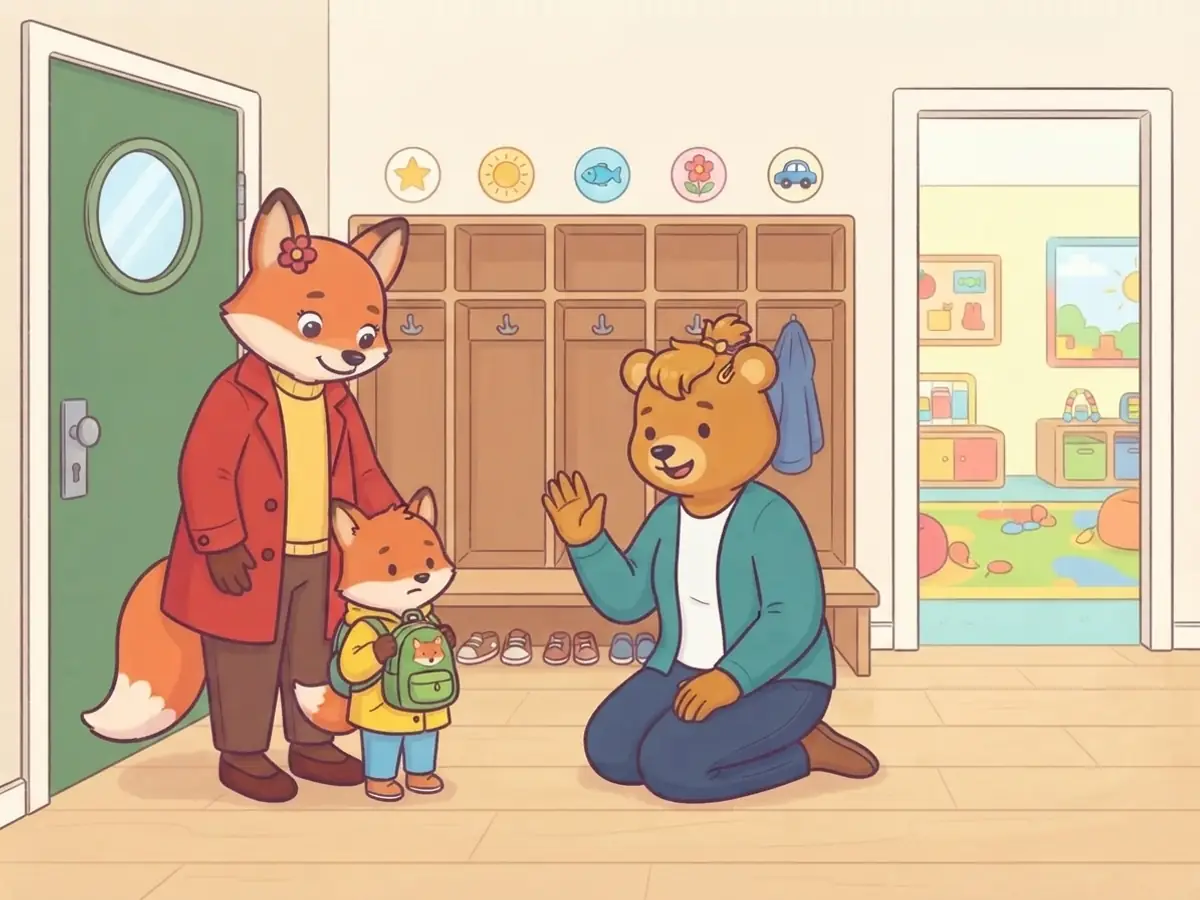
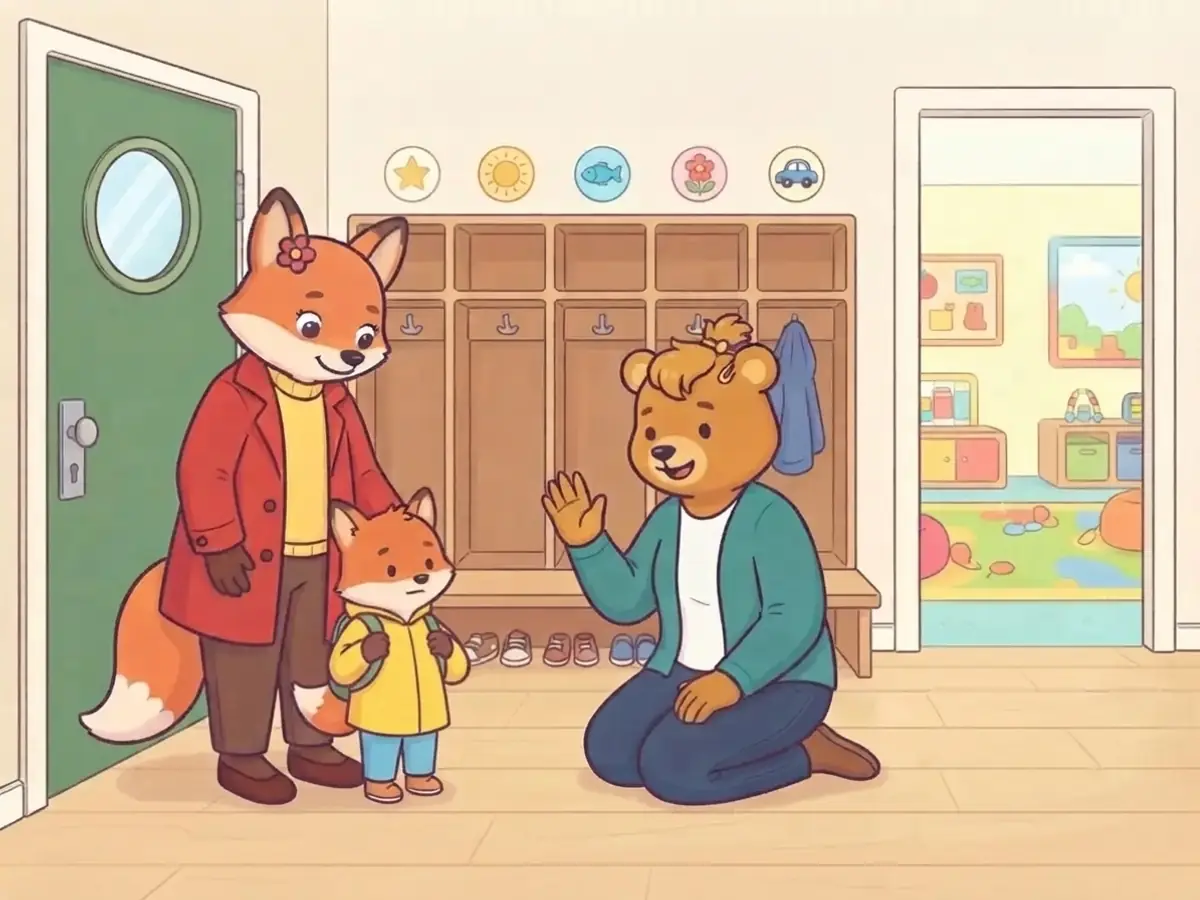
Kita-Start: the Kita seen from the street has a playground and an open door and gate, Tapsi packs smiling and wears one backpack, Mama vacuums at home and the whole group plays in the garden
Faces are friendly unless a picture asks otherwise: the style block of every Gemini picture now says so.

diff --git a/src/games/kitastory/kitaStoryPictures.ts b/src/games/kitastory/kitaStoryPictures.ts
@@ -44,7 +44,7 @@ const PLACES: Record<Place, { ref: string; was: string; first?: string; looks?: 
     was: "Papa and Tapsi stand on the pavement and look at the house",
     first: "anschauen",
     looks:
-      "A quiet little street in front of the daycare centre (a German Kita for toddlers), seen from across the pavement: a friendly low one-storey house with a red roof and warm yellow walls, a green front door on the right, and on the left a big low window with a white frame, its lower edge at a toddler's chest height from the floor inside, children's paintings of suns and flowers stuck inside the glass at its edges so the middle of the window stays clear; a low wooden fence with an open gate, a path to the door, a tree beside the house, a pavement in front.",
+      "A quiet little street in front of a daycare centre (a German Kita for toddlers), seen from across the pavement, so plainly a Kita and not a family's house: a wide, friendly one-storey building with a red roof and warm yellow walls, a colourful rainbow painted along its wall under the roof, a big green front door on the right standing wide open, showing a bright hall with small coats on hooks inside, and on the left a big low window with a white frame, children's paintings of suns and flowers stuck inside the glass at its edges so the middle of the window stays clear; in front of the house a low wooden fence with a big wide entrance gate, both its wings swung wide open, and a path from it to the open door. Beside the house, behind the fence, a garden with a playground full of toys: a sandpit with a wooden edge and buckets and shovels in it, a small slide, a swing on a wooden frame, a little climbing frame, a tricycle and a big red ball on the lawn; a big tree beside the house, a pavement in front.",
   },
   garderobe: {
     ref: pictureFile("ankommen"),
@@ -69,6 +69,9 @@ const PLACES: Record<Place, { ref: string; was: string; first?: string; looks?: 
   },
 };
 
+/** Whether a character is one of the Kita's bears. */
+const isBear = (c: Cast) => c !== "tapsi" && c !== "mama" && c !== "papa";
+
 /** Where Mia and Bruno are first drawn, so a later page with them in another place keeps their look. */
 const PEOPLE: Partial<Record<Cast, string>> = { mia: "ankommen", bruno: "stuhl" };
 
@@ -79,6 +82,9 @@ const LIGHT: Record<Light, string> = {
   mittag: "It is the midday nap: the curtains are drawn and the room lies in soft dim light, everything still clearly seen.",
   abend: "It is evening: dusk outside the window, a lamp gives warm soft light.",
 };
+
+/** How many characters a cast name stands for, where it is more than one. */
+const GROUP_SIZE: Partial<Record<Cast, number>> = { kinder: 2, gruppe: 4 };
 
 /** Everyone in a page's picture, each described with what they wear there. */
 function castOf(page: KitaPage): string {
@@ -91,8 +97,10 @@ function castOf(page: KitaPage): string {
       "Bruno, Tapsi's friend, a small bear toddler as tall as Tapsi with dark-brown fur, in a red T-shirt and blue dungarees, with only a tiny round bear tail",
     kinder:
       "two more small toddlers of the daycare group, as tall as Tapsi: a little bear girl with light-brown fur in a green dress, and a little bear boy with grey-brown fur in an orange T-shirt",
+    gruppe:
+      "four more small toddlers of the daycare group, as tall as Tapsi, each with only a tiny round bear tail: a little bear girl with dark-brown fur in a pink dress, a little bear boy with honey-blond fur in a yellow T-shirt and green trousers, a little bear girl with reddish-brown fur in a purple dress, and a little bear boy with cream-coloured fur in a blue striped sweater",
   };
-  const n = page.cast.reduce((sum, c) => sum + (c === "kinder" ? 2 : 1), 0);
+  const n = page.cast.reduce((sum, c) => sum + (GROUP_SIZE[c] ?? 1), 0);
   return `Exactly ${n === 1 ? "one character" : `${n} characters, each once`}: ${page.cast.map((c) => who[c]).join("; ")}. Nobody else: only ONE of each in the whole picture, nobody more in a doorway, on the furniture, behind the window or peeking in from an edge.`;
 }
 
@@ -101,7 +109,12 @@ function thingsOf(page: KitaPage): string[] {
   const things: string[] = [];
   if (/plush bunny/.test(page.picture))
     things.push("The plush bunny is Tapsi's light-grey soft toy with long floppy ears, not a living rabbit; there is only one.");
-  if (/backpack/.test(page.picture)) things.push("Tapsi's backpack is a small green toddler backpack with a fox face on its front pocket; there is only one.");
+  // On the first day's arrival Tapsi wore one backpack on the back and a second on the front (user feedback, 12
+  // November 2026): say where a worn backpack sits.
+  if (/backpack/.test(page.picture))
+    things.push(
+      "Tapsi's backpack is a small green toddler backpack with a fox face on its front pocket; there is only one. When Tapsi wears it, it sits on Tapsi's back with only its two straps over the shoulders – nothing on Tapsi's chest or tummy.",
+    );
   if (/star sign/.test(page.picture)) things.push("Tapsi's hook is marked with a small round sign showing a yellow star.");
   return things;
 }
@@ -128,6 +141,7 @@ const NAMED: Record<Cast, string> = {
   mia: "Mia (the grown-up bear)",
   bruno: "Bruno",
   kinder: "the other bear children",
+  gruppe: "the rest of the bear group",
 };
 
 /**
@@ -142,13 +156,13 @@ function absent(page: KitaPage): string {
   if (!gone.length) return "";
   const names = gone.map((who) => NAMED[who]);
   const list = names.length === 1 ? names[0] : `${names.slice(0, -1).join(", ")} and ${names.at(-1)}`;
-  return `${list} ${names.length === 1 && gone[0] !== "kinder" ? "is" : "are"} not in this picture at all: leave their places in the reference empty, and give nobody else their place or clothes.`;
+  return `${list} ${names.length === 1 && !GROUP_SIZE[gone[0]] ? "is" : "are"} not in this picture at all: leave their places in the reference empty, and give nobody else their place or clothes.`;
 }
 
 /** The prompt of a page's picture, without the style block. */
 function promptOf(page: KitaPage): string {
   const place = PLACES[page.place];
-  const bears = page.cast.some((c) => c === "mia" || c === "bruno" || c === "kinder");
+  const bears = page.cast.some(isBear);
   const parts =
     place.first === page.id
       ? [
@@ -175,7 +189,7 @@ function promptOf(page: KitaPage): string {
 function ownRefs(page: KitaPage): string[] {
   const place = PLACES[page.place];
   if (place.first !== page.id) return [place.ref];
-  return page.cast.some((c) => c === "mia" || c === "bruno" || c === "kinder") ? [FAMILY, BEARS] : [FAMILY];
+  return page.cast.some(isBear) ? [FAMILY, BEARS] : [FAMILY];
 }
 
 /** The pictures a page is drawn from: its place's own, then the pictures Mia and Bruno first came in (`PEOPLE`). */
@@ -213,8 +227,10 @@ const MADE = new Set<string>([
   "wieder",
   "essen",
   "traurig",
+  "zuhause",
   "pusten",
   "laenger",
+  "toben",
   "weg",
   "schuhe",
   "kuss",

diff --git a/src/games/kitastory/kitaStory.ts b/src/games/kitastory/kitaStory.ts
@@ -44,8 +44,11 @@ export const SETTLING_STEPS: { id: SettlingStep; title: string; what: string }[]
 /** Where a page plays: every place keeps its look from its reference picture on (`kitaStoryPictures.ts`). */
 export type Place = "wohnzimmer" | "kinderzimmer" | "weg" | "kita" | "garderobe" | "gruppenraum" | "garten";
 
-/** Who is in a page's picture: Tapsi, Mama and Papa Fuchs, Mia the Kita teacher, Bruno and two more children of the group. */
-export type Cast = "tapsi" | "mama" | "papa" | "mia" | "bruno" | "kinder";
+/**
+ * Who is in a page's picture: Tapsi, Mama and Papa Fuchs, Mia the Kita teacher, Bruno, two more children of the group
+ * („kinder“) and, where the whole group plays, four more („gruppe“).
+ */
+export type Cast = "tapsi" | "mama" | "papa" | "mia" | "bruno" | "kinder" | "gruppe";
 
 /** The light of a page. */
 export type Light = "morgen" | "tag" | "mittag" | "abend";
@@ -58,7 +61,7 @@ export interface KitaPage {
   text: string;
   place: Place;
   light: Light;
-  /** Everyone in the picture, each once („kinder“ are two). */
+  /** Everyone in the picture, each once („kinder“ are two, „gruppe“ four). */
   cast: Cast[];
   /** What happens in the picture, in English, for its Gemini prompt (`kitaStoryPictures.ts` adds place, cast and light). */
   picture: string;
@@ -101,7 +104,7 @@ export const KITA_STORY: KitaChapter[] = [
         light: "abend",
         cast: ["tapsi", "mama"],
         picture:
-          "Tapsi and Mama kneel on the round rug in front of the bed and pack Tapsi's backpack: Mama holds up small red slippers, and Tapsi pushes the plush bunny into the backpack so its ears stick out.",
+          "Tapsi and Mama kneel on the round rug in front of the bed and pack Tapsi's backpack: Mama holds up small red slippers, and Tapsi pushes the plush bunny into the backpack so its ears stick out. Tapsi looks happy and eager, smiling with relaxed, raised brows – not frowning.",
       },
     ],
   },
@@ -231,12 +234,30 @@ export const KITA_STORY: KitaChapter[] = [
           "Mia sits cross-legged on the play rug with Tapsi on her lap, Tapsi leans against her with a sad face and holds the plush bunny; Mia holds Tapsi gently. The small wooden chair at the back wall is empty.",
       },
       {
+        id: "zuhause",
+        text: "Und Mama? Mama ist zu Hause und saugt Staub. Sie denkt an Tapsi.",
+        place: "wohnzimmer",
+        light: "morgen",
+        cast: ["mama"],
+        picture:
+          "Mama vacuums the rug in front of the green sofa with an upright vacuum cleaner and smiles softly to herself, thinking of Tapsi. Tapsi is not at home: the rug is empty, no blocks on it, no fox child anywhere.",
+      },
+      {
         id: "laenger",
         text: "Jeden Tag bleibt Mama ein bisschen länger weg. Tapsi spielt jetzt mit Bruno.",
         place: "garten",
         light: "tag",
         cast: ["tapsi", "bruno"],
         picture: "Tapsi and Bruno sit in the sandpit and fill a red bucket together with small shovels, both laughing.",
+      },
+      {
+        id: "toben",
+        text: "Im Garten spielen viele Kinder. Sie rutschen, rennen und buddeln. Tapsi lacht mit.",
+        place: "garten",
+        light: "tag",
+        cast: ["tapsi", "bruno", "kinder", "gruppe", "mia"],
+        picture:
+          "The whole group plays in the garden and has fun, all laughing: Tapsi comes down the small slide with both arms up, Bruno waits at the slide's foot and cheers; the bear girl in the green dress and the bear boy in the orange T-shirt chase each other across the lawn; two of the other bear children dig in the sandpit and two kick a big red ball on the lawn; Mia stands on the lawn by the sandpit and laughs.",
       },
     ],
   },

diff --git a/src/content/pictureQueuePlan.ts b/src/content/pictureQueuePlan.ts
@@ -11,11 +11,11 @@ import type { QueuedPicture } from "./pictureQueue";
 
 /** The book's style block, put before every picture's prompt (see the skill /bild-erzeugen). */
 export const BOOK_STYLE =
-  "Children's picture-book illustration for 2–4 year olds, like a page of a printed picture book. Soft, flat, rounded shapes with thick dark plum ink outlines (#3d3045), warm friendly colours softened like gouache printed on matte paper – still clear and easy to tell apart, never dull or grey – gentle shading. Simple, uncluttered background. Every fox and bear wears clothes. No text, no letters, no numbers, no speech bubbles, no frames, no book, page or paper edge drawn around the picture.";
+  "Children's picture-book illustration for 2–4 year olds, like a page of a printed picture book. Soft, flat, rounded shapes with thick dark plum ink outlines (#3d3045), warm friendly colours softened like gouache printed on matte paper – still clear and easy to tell apart, never dull or grey – gentle shading. Simple, uncluttered background. Every fox and bear wears clothes. Faces are friendly and relaxed, never frowning or with angry brows unless the picture asks for that feeling. No text, no letters, no numbers, no speech bubbles, no frames, no book, page or paper edge drawn around the picture.";
 
 /** The style block for cut-outs: no background and no paper texture, which would spoil the cut. */
 export const CUTOUT_STYLE =
-  "Children's picture-book illustration for 2–4 year olds, like a page of a printed picture book. Soft, flat, rounded shapes with thick dark plum ink outlines (#3d3045), warm friendly colours softened like gouache – still clear and easy to tell apart, never dull or grey – gentle shading. Every fox and bear wears clothes. No text, no letters, no numbers, no speech bubbles, no frames, no book, page or paper edge drawn around the picture.";
+  "Children's picture-book illustration for 2–4 year olds, like a page of a printed picture book. Soft, flat, rounded shapes with thick dark plum ink outlines (#3d3045), warm friendly colours softened like gouache – still clear and easy to tell apart, never dull or grey – gentle shading. Every fox and bear wears clothes. Faces are friendly and relaxed, never frowning or with angry brows unless the picture asks for that feeling. No text, no letters, no numbers, no speech bubbles, no frames, no book, page or paper edge drawn around the picture.";
 
 /** The pixels of a 1K picture per aspect Gemini can make (the Lite model's only size). */
 export const PICTURE_1K: Record<string, [number, number]> = {

diff --git a/src/games/kitastory/kitastory.test.ts b/src/games/kitastory/kitastory.test.ts
@@ -38,6 +38,13 @@ describe("Tapsi geht in die Kita", () => {
     for (const text of texts) expect(text, text).not.toMatch(/\b\d{1,2}(:\d\d)? Uhr\b/);
   });
 
+  // User decision, 12 November 2026: Mama at home while Tapsi is in the Kita belongs where she stays away longer, never
+  // to the first short goodbye, when the guides keep her in the building.
+  test("Mama is shown away from Tapsi only once she stays away longer", () => {
+    for (const chapter of KITA_STORY)
+      for (const page of chapter.pages) if (page.cast.includes("mama") && !page.cast.includes("tapsi")) expect(chapter.step, page.id).toBe("bezugsperson");
+  });
+
   test("nothing scolds or shames, crying is allowed, and it ends in love", () => {
     const words = /\b(böse|unartig|schäm|stell dich nicht an|hör auf zu weinen|darf nicht weinen|baby\b|heimlich|schnell weg)/i;
     for (const page of KITA_PAGES) expect(page.text, page.id).not.toMatch(words);
@@ -50,7 +57,7 @@ describe("Tapsi geht in die Kita", () => {
   test("Mia, Bruno and the group are only in the Kita, Papa only at home and on the way", () => {
     const kita = new Set(["kita", "garderobe", "gruppenraum", "garten"]);
     for (const page of KITA_PAGES) {
-      if (page.cast.some((c) => c === "mia" || c === "bruno" || c === "kinder")) expect(kita.has(page.place), page.id).toBe(true);
+      if (page.cast.some((c) => c === "mia" || c === "bruno" || c === "kinder" || c === "gruppe")) expect(kita.has(page.place), page.id).toBe(true);
       if (page.cast.includes("papa")) expect(["wohnzimmer", "kita"]).toContain(page.place);
     }
   });

diff --git a/src/content/pictureQueue.test.ts b/src/content/pictureQueue.test.ts
@@ -116,6 +116,11 @@ test("both style blocks dress the fox and the bear", () => {
   for (const style of [BOOK_STYLE, CUTOUT_STYLE]) expect(style).toContain("Every fox and bear wears clothes.");
 });
 
+// Calm pages came back with an angry-looking fox (user feedback, 12 November 2026: „diesen Fehler machst du öfter“).
+test("both style blocks ask for friendly faces", () => {
+  for (const style of [BOOK_STYLE, CUTOUT_STYLE]) expect(style).toContain("never frowning or with angry brows unless the picture asks for that feeling");
+});
+
 // The user only wants to know how many pictures wait, never to read and approve prompts there (November 2026).
 test("the management page shows how many pictures wait, and no prompts to review", () => {
   const page = readFileSync("src/pages/ManagementPage.tsx", "utf8");

diff --git a/.claude/skills/bild-erzeugen/SKILL.md b/.claude/skills/bild-erzeugen/SKILL.md
@@ -241,10 +241,16 @@ Children's picture-book illustration for 2–4 year olds, like a page of a print
 picture book. Soft, flat, rounded shapes with thick dark plum ink outlines
 (#3d3045), warm friendly colours softened like gouache printed on matte paper –
 still clear and easy to tell apart, never dull or grey – gentle shading. Simple,
-uncluttered background. Every fox and bear wears clothes. No text, no letters,
-no numbers, no speech bubbles, no frames, no book, page or paper edge drawn
-around the picture.
+uncluttered background. Every fox and bear wears clothes. Faces are friendly
+and relaxed, never frowning or with angry brows unless the picture asks for
+that feeling. No text, no letters, no numbers, no speech bubbles, no frames, no
+book, page or paper edge drawn around the picture.
 ```
+
+**Faces look as the moment feels, friendly by default** (user feedback, 12 November 2026: „diesen Fehler machst du
+öfter“ – Tapsi packing the backpack looked angry, with brows drawn down): the block says so, a prompt names the face of
+anyone whose mood matters („smiling with relaxed, raised brows“), and every face is looked at before keeping a picture
+– frowning brows on a calm or happy page are a fault to fix by an edit of that picture (see Workflow 4).
 
 The app draws the book, its page and margin round every picture itself: never ask Gemini for them, and keep the
 last line of the block, so „a page of a picture book“ doesn't come back as a drawn open book. Never call the picture a
